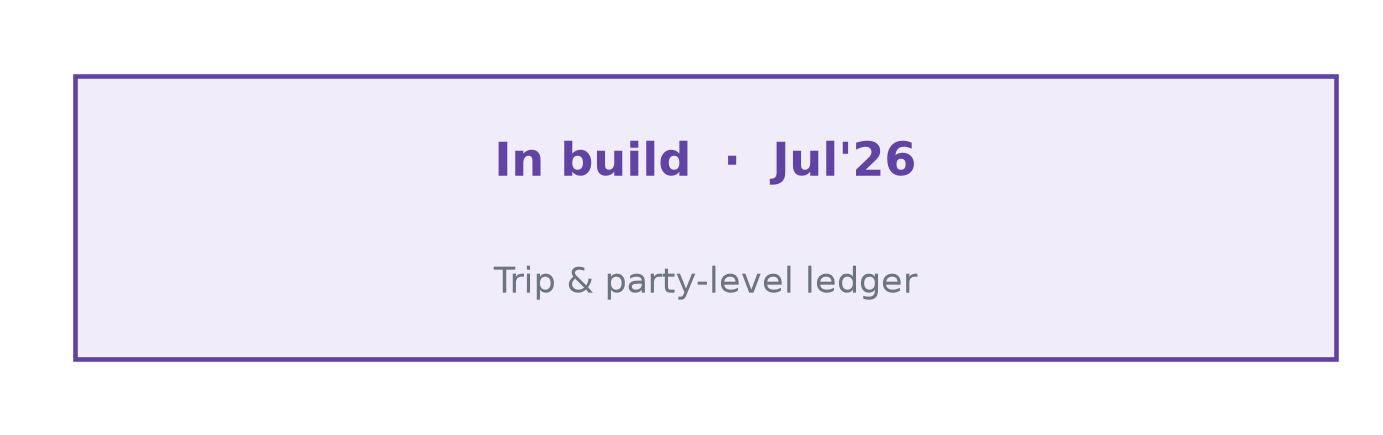
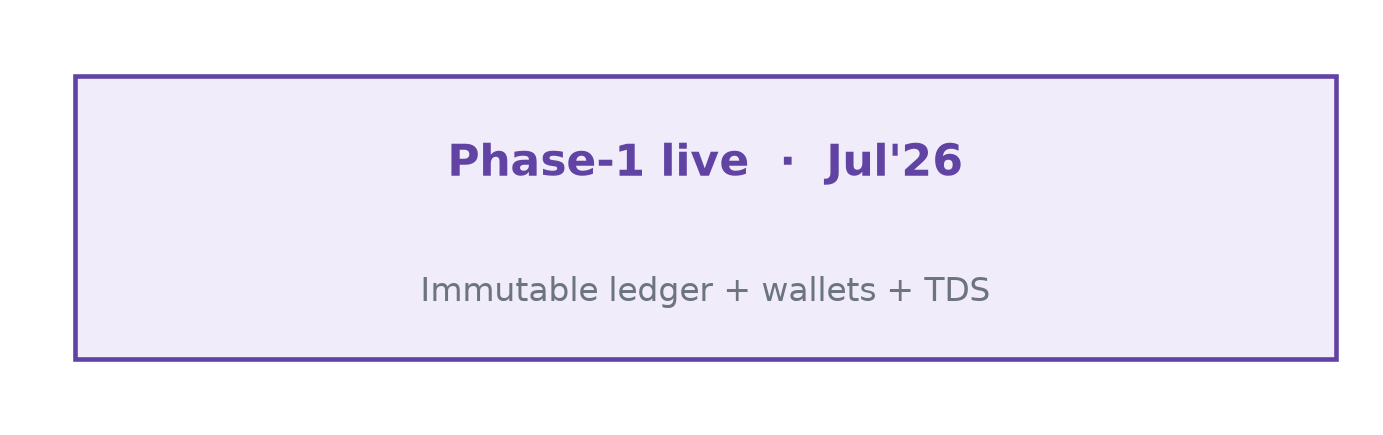
July slide: refresh Progress + Next-Focus from Linear (Carrier Matching)
Pull real Jun->Jul completed stories and in-progress/planned work per project:
- Ledger shipped in July (immutable trip-level ledger, FO/LSP wallets,
  automated TDS; Phase-1 foundation live) -> badge now 'Phase-1 live'
- Ops: automated advance payments for Gold/Silver FOs shipped; SIM-consent
  moved to Next Focus (still in progress)
- FO App / Fulfilment / Supply progress + next-focus refreshed from issues
- Trend charts May-Jul; header JUN-JUL PROGRESS

Claude-Session: https://claude.ai/code/session_01HTHNkMyy3hCJ7Wqf5x3kDZ

Changed region(s): [[0.3109, 0.2989, 0.7151, 0.4184], [0.3109, 0.5977, 0.7151, 0.7172]]

diff --git a/board_review_q2_2026/july_update/build_july_v2.py b/board_review_q2_2026/july_update/build_july_v2.py
@@ -1,0 +1,104 @@
+from pptx import Presentation
+from pptx.oxml.ns import qn
+from copy import deepcopy
+
+p=Presentation("july.pptx"); s=p.slides[0]
+
+def para_set_text(p_elem, text):
+    runs=p_elem.findall(qn('a:r'))
+    first=runs[0]
+    t=first.find(qn('a:t'))
+    if t is None:
+        t=first.makeelement(qn('a:t'),{}); first.append(t)
+    t.text=text
+    for r in runs[1:]:
+        p_elem.remove(r)
+
+def rewrite(shape_id, bullets):
+    for sh in s.shapes:
+        if sh.shape_id==shape_id:
+            tf=sh.text_frame
+            paras=[pp._p for pp in tf.paragraphs]
+            template=deepcopy(paras[0])          # keep formatting of 1st paragraph
+            parent=paras[0].getparent()
+            for pe in paras:                     # remove all existing paragraphs
+                parent.remove(pe)
+            for b in bullets:
+                clone=deepcopy(template)
+                para_set_text(clone, b)
+                parent.append(clone)
+            return
+    raise SystemExit("shape %s not found"%shape_id)
+
+def set_header(shape_id, txt):
+    for sh in s.shapes:
+        if sh.shape_id==shape_id:
+            para_set_text(sh.text_frame.paragraphs[0]._p, txt); return
+
+# ---- headers ----
+set_header(64, "JUN–JUL PROGRESS")
+set_header(65, "TREND  (May–Jul'26)")
+
+# ---- swap charts (May-Jul) ----
+repl={92:'charts/j_row1.png',91:'charts/j_row2.png',78:'charts/j_row3.png',87:'charts/j_row5.png'}
+for sh in list(s.shapes):
+    if sh.shape_id in repl:
+        L,T,W,H=sh.left,sh.top,sh.width,sh.height
+        el=sh._element; el.getparent().remove(el)
+        s.shapes.add_picture(repl[sh.shape_id],L,T,W,H)
+
+# ---- Progress (Jun->Jul, delivered) ----
+rewrite(69,[
+ "•  POD details + payment status & timelines in app",
+ "•  Proactive POD dispute/deduction alerts + re-upload",
+ "•  DAU 271 → 298 (+10%); MAU 1,377 → 1,573 (+14%)",
+])
+rewrite(73,[
+ "•  Near-match logic + match quality on demand list",
+ "•  Supplier availability: lane-specific vs unavailable",
+ "•  Agents onboarded (Clerk) for lane assignment",
+])
+rewrite(77,[
+ "•  Automated AI calling for live & potential inventory (multi-lang)",
+ "•  WhatsApp fallback + callback; cooldown filtering",
+ "•  AI drives ~65% of inventory",
+])
+rewrite(82,[
+ "•  Automated advance payments for Gold/Silver FOs (validation → approval → auto-release)",
+ "•  WhatsApp-disconnect auto-reminders for CRM users",
+ "•  Vahan verification & journey updates in LSP WhatsApp",
+])
+rewrite(86,[
+ "•  Immutable trip-level ledger — Net Payable/Receivable (live)",
+ "•  FO/LSP wallets + overpayment settlement; automated TDS",
+ "•  Ledger Phase-1 foundation (journal + payouts) live",
+])
+
+# ---- Next Focus (planned / in build) ----
+rewrite(70,[
+ "›  Drive towards 500 DAU",
+ "›  Reach PSA directly for placement (in build)",
+ "›  Trip payment statement + in-app advance",
+])
+rewrite(74,[
+ "›  Agent → lane auto-assignment (shipped)",
+ "›  Prioritise demand list; Demand-Bot context (in build)",
+ "›  Push network-lane fulfilment → 20%",
+])
+rewrite(79,[
+ "›  Inventory creation on network lanes → 1,500/mo",
+ "›  Improve inventory quality & conversion",
+])
+rewrite(83,[
+ "›  Automate SIM-consent, pre-transit (in build)",
+ "›  FO doc collection via App; transit-delay detection",
+ "›  Auto-create Pylon tickets from LSP WhatsApp (POC)",
+])
+rewrite(88,[
+ "›  Trip Statement — 3-yr ledger tab in FO App (in build)",
+ "›  TDS rate + self-serve TDS declaration in FO App",
+ "›  LSP exposure limit; wallet auto-reconciliation",
+])
+
+p.save("july_out.pptx")
+print("saved july_out.pptx (Linear-refreshed)")

diff --git a/board_review_q2_2026/july_update/make_charts_july.py b/board_review_q2_2026/july_update/make_charts_july.py
@@ -69,10 +69,10 @@ fig,ax=newfig("r5")
 ax.axis("off")
 ax.add_patch(plt.Rectangle((0.02,0.16),0.96,0.68,transform=ax.transAxes,
              fill=True,facecolor="#F1ECF9",edgecolor=PURPLE,lw=1.1))
-ax.text(0.5,0.60,"In build  ·  Jul'26",transform=ax.transAxes,ha="center",
-        fontsize=11,fontweight="bold",color=PURPLE)
-ax.text(0.5,0.32,"Trip & party-level ledger",transform=ax.transAxes,ha="center",
-        fontsize=8.5,color=GREY)
+ax.text(0.5,0.60,"Phase-1 live  ·  Jul'26",transform=ax.transAxes,ha="center",
+        fontsize=10.5,fontweight="bold",color=PURPLE)
+ax.text(0.5,0.30,"Immutable ledger + wallets + TDS",transform=ax.transAxes,ha="center",
+        fontsize=8,color=GREY)
 save(fig,"j_row5",top=0.98,bottom=0.02)
 
 print("done")
